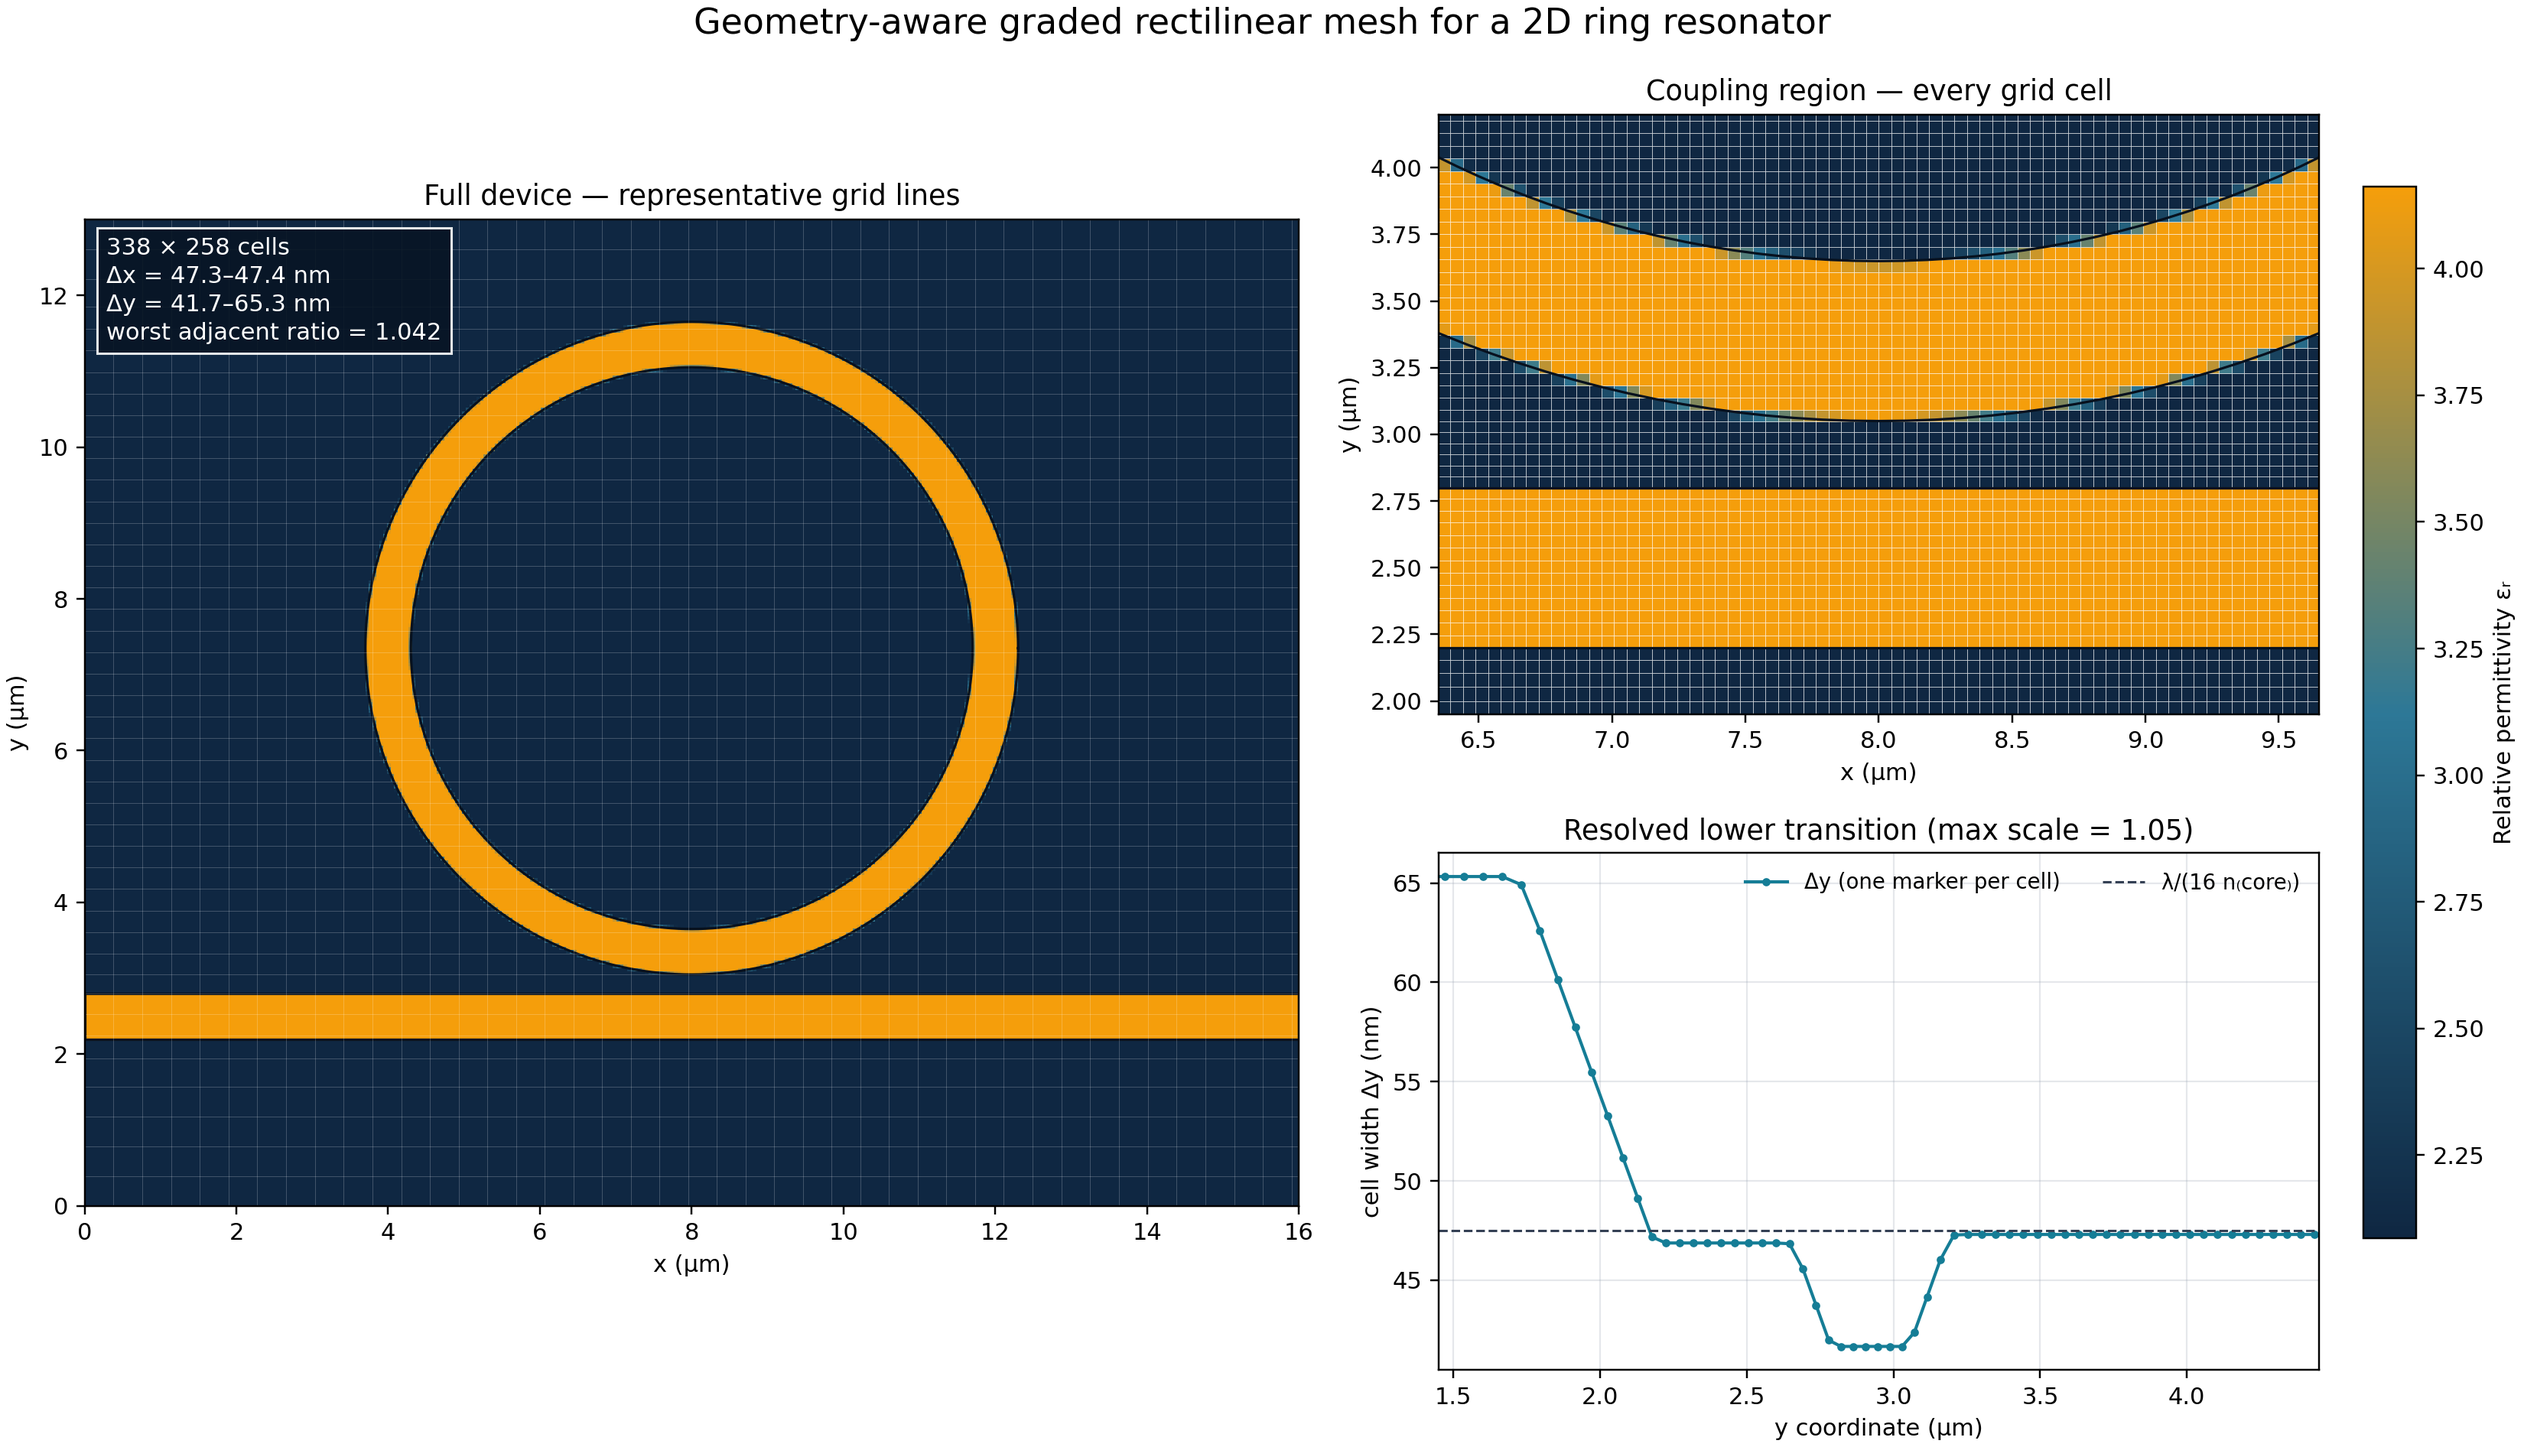
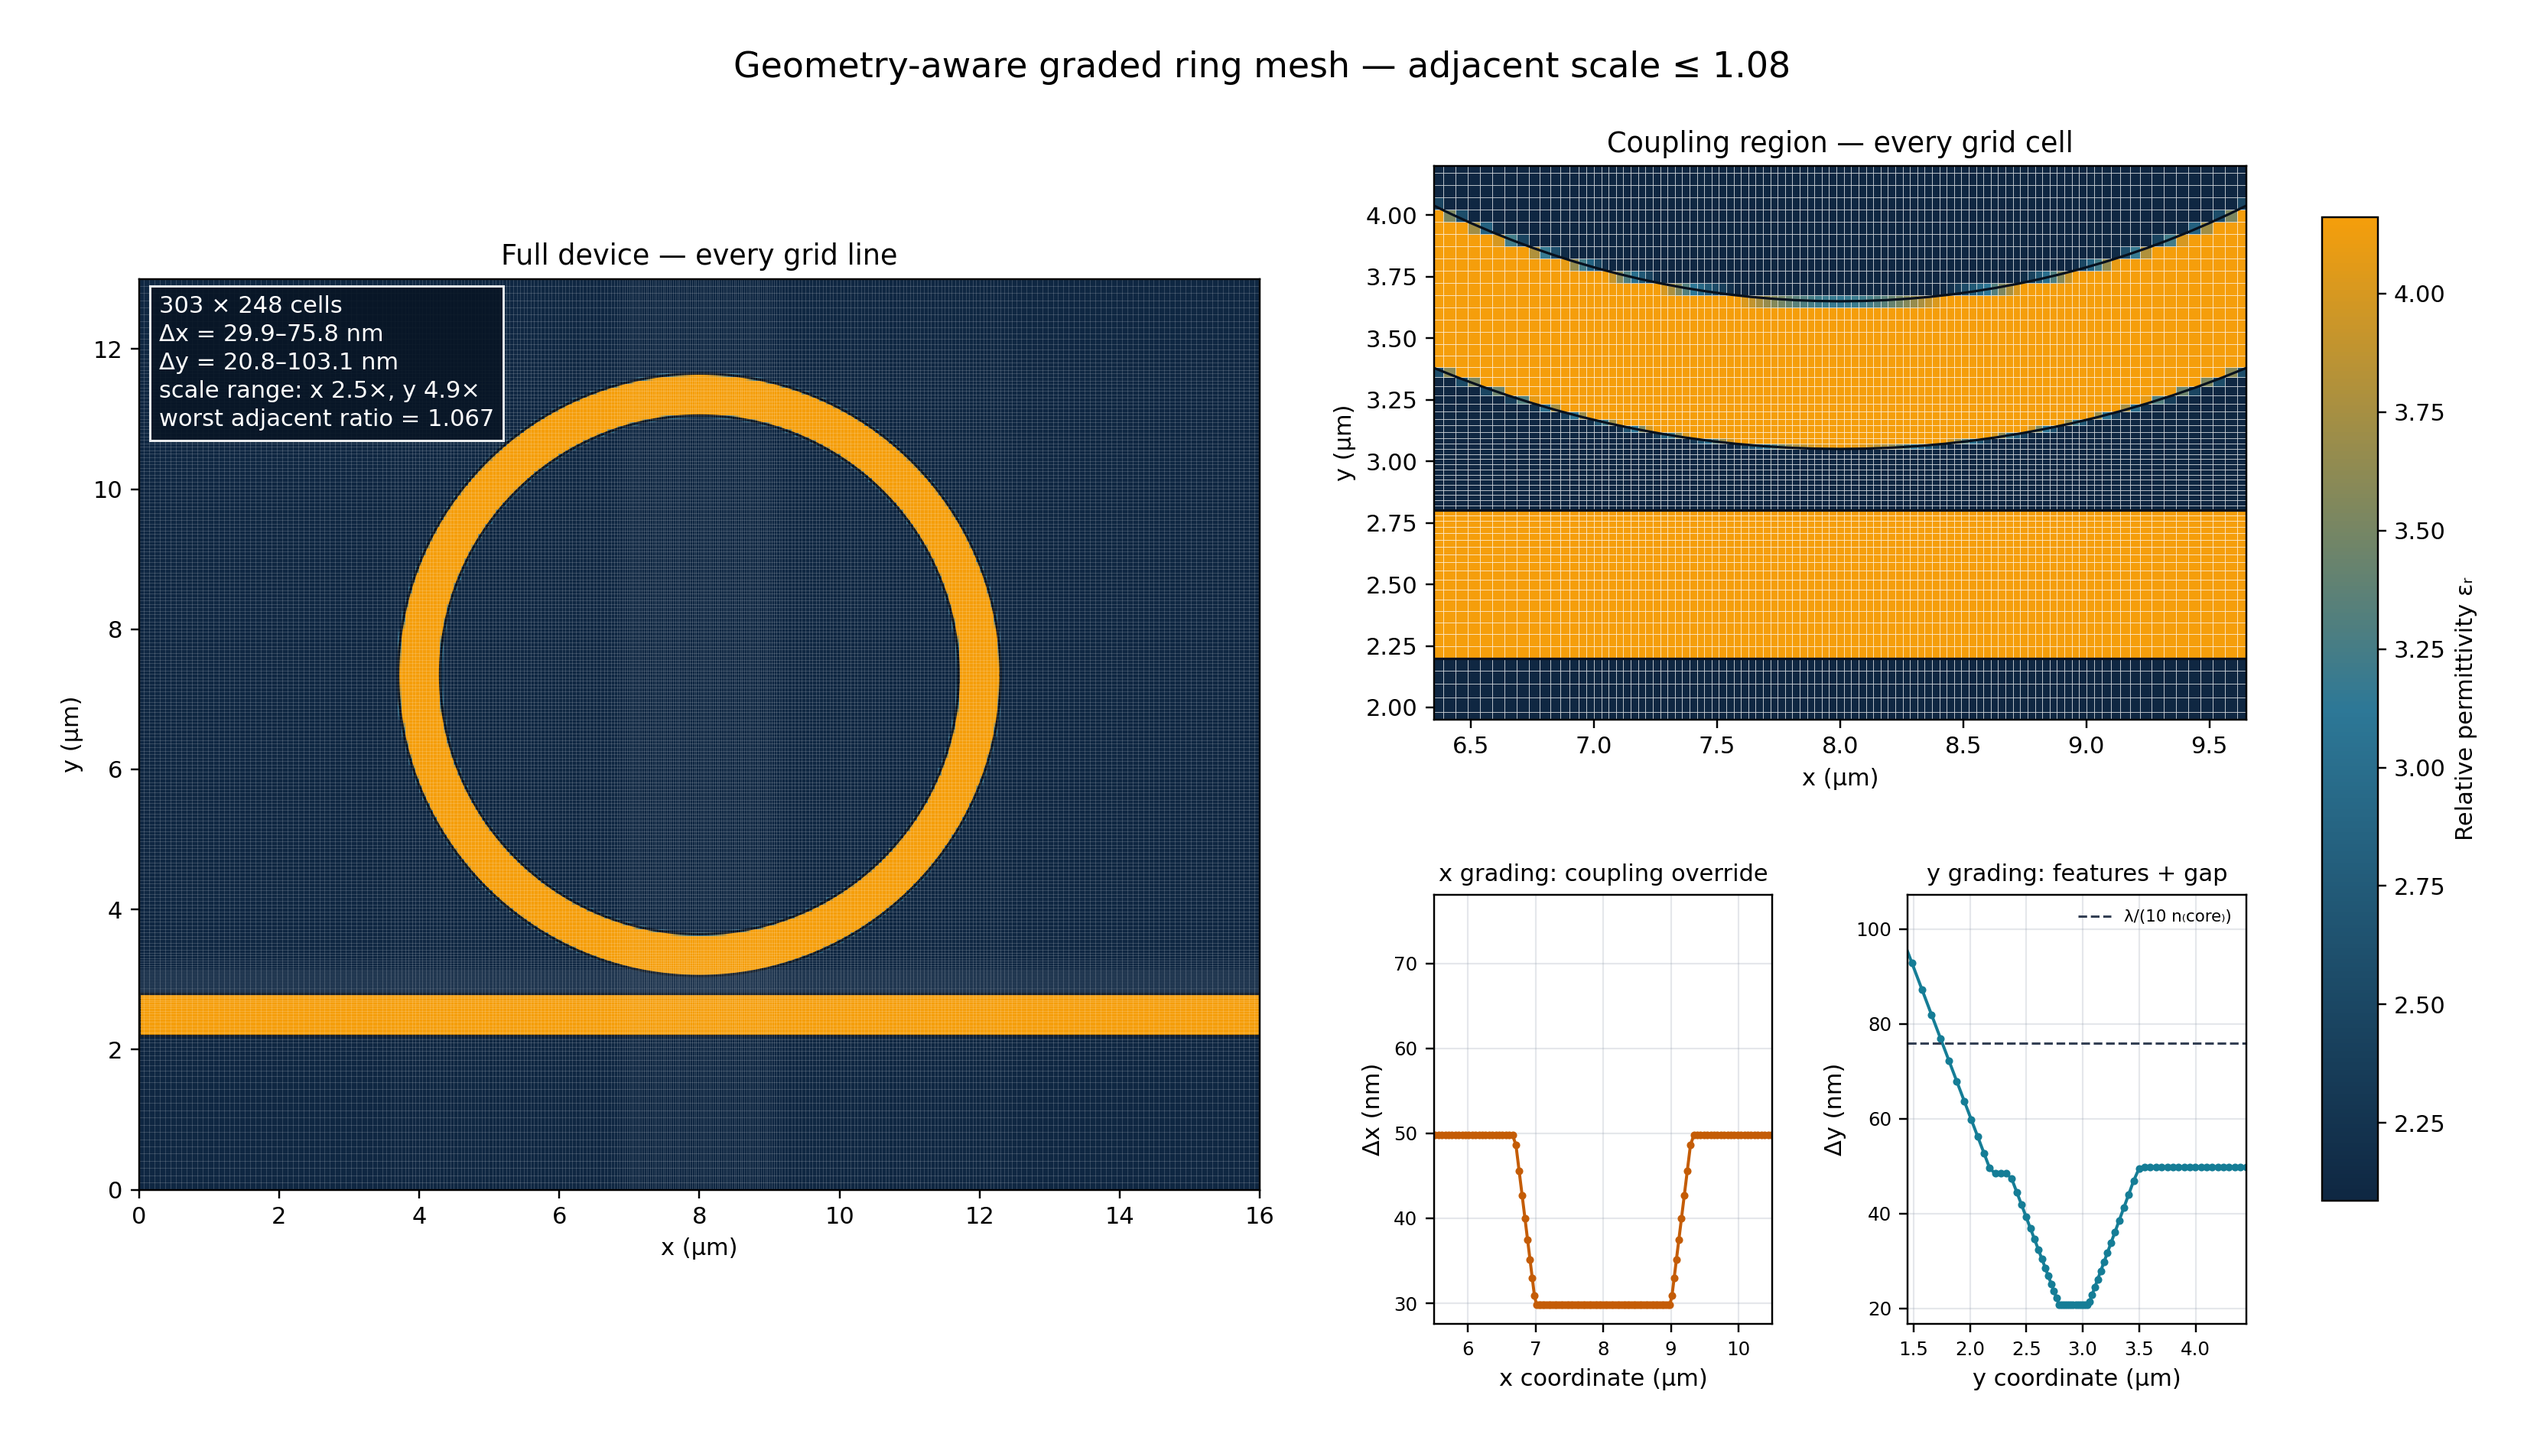
[Examples] Make ring grid grading explicit

diff --git a/examples/2D_basics/resonator_ring_rectilinear_grid.py b/examples/2D_basics/resonator_ring_rectilinear_grid.py
@@ -14,7 +14,10 @@ from matplotlib.colors import LinearSegmentedColormap
 import beamz as bz
 
 WAVELENGTH = 1.55 * bz.um
-MAX_SCALE = 1.05
+MIN_STEPS_PER_WVL = 10
+MIN_FEATURE_CELLS = 12
+MAX_SCALE = 1.08
+COUPLING_DX = 30 * bz.nm
 
 
 def create_design() -> tuple[bz.Design, dict[str, float]]:
@@ -61,13 +64,27 @@ def create_design() -> tuple[bz.Design, dict[str, float]]:
     return design, params
 
 
-def create_grid(design: bz.Design) -> tuple[bz.GridSpec, bz.RectilinearGrid]:
-    """Resolve a material- and geometry-aware grid with gentle grading."""
+def create_grid(
+    design: bz.Design, params: dict[str, float]
+) -> tuple[bz.GridSpec, bz.RectilinearGrid]:
+    """Resolve an automatic grid with an x-only coupling-region override."""
+    gap_center_y = (
+        params["bus_center_y"]
+        + 0.5 * params["waveguide_width"]
+        + 0.5 * params["coupling_gap"]
+    )
     spec = bz.GridSpec.graded(
         wavelength=WAVELENGTH,
-        min_steps_per_wvl=16,
-        min_feature_cells=6,
+        min_steps_per_wvl=MIN_STEPS_PER_WVL,
+        min_feature_cells=MIN_FEATURE_CELLS,
         max_scale=MAX_SCALE,
+        overrides=(
+            bz.MeshOverride(
+                center=(params["ring_center_x"], gap_center_y),
+                size=(2.0 * bz.um, 1.5 * bz.um),
+                dl=(COUPLING_DX, None),
+            ),
+        ),
     )
     return spec, spec.realize(design)
 
@@ -99,16 +116,24 @@ def plot_grid(
     cmap = LinearSegmentedColormap.from_list(
         "ring_materials", ("#0f2742", "#2d7897", "#f59e0b")
     )
-    figure = plt.figure(figsize=(15.0, 8.6), layout="constrained")
+    figure = plt.figure(figsize=(15.0, 8.6))
     layout = figure.add_gridspec(
         2,
         2,
         width_ratios=(1.38, 1.0),
         height_ratios=(1.0, 0.72),
+        left=0.055,
+        right=0.89,
+        bottom=0.085,
+        top=0.90,
+        wspace=0.18,
+        hspace=0.30,
     )
     full_ax = figure.add_subplot(layout[:, 0])
     zoom_ax = figure.add_subplot(layout[0, 1])
-    spacing_ax = figure.add_subplot(layout[1, 1])
+    spacing_layout = layout[1, 1].subgridspec(1, 2, wspace=0.40)
+    x_spacing_ax = figure.add_subplot(spacing_layout[0, 0])
+    y_spacing_ax = figure.add_subplot(spacing_layout[0, 1])
 
     image_options = {
         "shading": "flat",
@@ -119,17 +144,17 @@ def plot_grid(
     full_mesh = full_ax.pcolormesh(x_um, y_um, epsilon, **image_options)
     _draw_exact_outlines(full_ax, design)
 
-    # A representative subset avoids hiding the device under 85,000 grid cells.
-    for edge in x_um[::8]:
-        full_ax.axvline(edge, color="white", linewidth=0.28, alpha=0.24)
-    for edge in y_um[::6]:
-        full_ax.axhline(edge, color="white", linewidth=0.28, alpha=0.24)
+    # Draw every edge: this example is deliberately tuned to expose the grading.
+    for edge in x_um:
+        full_ax.axvline(edge, color="white", linewidth=0.22, alpha=0.24)
+    for edge in y_um:
+        full_ax.axhline(edge, color="white", linewidth=0.22, alpha=0.24)
     full_ax.set(
         xlim=(x_um[0], x_um[-1]),
         ylim=(y_um[0], y_um[-1]),
         xlabel="x (µm)",
         ylabel="y (µm)",
-        title="Full device — representative grid lines",
+        title="Full device — every grid line",
     )
     full_ax.set_aspect("equal", adjustable="box")
     full_ax.text(
@@ -139,6 +164,8 @@ def plot_grid(
             f"{grid.shape[0]:,} × {grid.shape[1]:,} cells\n"
             f"Δx = {dx_nm.min():.1f}–{dx_nm.max():.1f} nm\n"
             f"Δy = {dy_nm.min():.1f}–{dy_nm.max():.1f} nm\n"
+            f"scale range: x {dx_nm.max() / dx_nm.min():.1f}×, "
+            f"y {dy_nm.max() / dy_nm.min():.1f}×\n"
             f"worst adjacent ratio = {quality.max_adjacent_ratio:.3f}"
         ),
         transform=full_ax.transAxes,
@@ -176,37 +203,57 @@ def plot_grid(
     )
     zoom_ax.set_aspect("equal", adjustable="box")
 
+    x_centers = grid.centers("x") / bz.um
     y_centers = grid.centers("y") / bz.um
-    spacing_ax.plot(
+    x_spacing_ax.plot(
+        x_centers,
+        dx_nm,
+        color="#c45c06",
+        marker="o",
+        markersize=2.3,
+        linewidth=1.3,
+    )
+    x_spacing_ax.set(
+        xlabel="x coordinate (µm)",
+        ylabel="Δx (nm)",
+        title="x grading: coupling override",
+        xlim=(5.5, 10.5),
+    )
+
+    y_spacing_ax.plot(
         y_centers,
         dy_nm,
         color="#157d96",
         marker="o",
-        markersize=2.5,
-        label="Δy (one marker per cell)",
-        linewidth=1.35,
+        markersize=2.3,
+        linewidth=1.3,
     )
-    spacing_ax.axhline(
-        WAVELENGTH / params["n_core"] / 16 / bz.nm,
+    y_spacing_ax.axhline(
+        WAVELENGTH / params["n_core"] / MIN_STEPS_PER_WVL / bz.nm,
         color="#344054",
         linestyle="--",
         linewidth=1.0,
-        label="λ/(16 n₍core₎)",
+        label=f"λ/({MIN_STEPS_PER_WVL} n₍core₎)",
     )
-    spacing_ax.set(
+    y_spacing_ax.set(
         xlabel="y coordinate (µm)",
-        ylabel="cell width Δy (nm)",
-        title=f"Resolved lower transition (max scale = {MAX_SCALE})",
+        ylabel="Δy (nm)",
+        title="y grading: features + gap",
         xlim=(1.45, 4.45),
     )
-    spacing_ax.grid(color="#98a2b3", alpha=0.25, linewidth=0.7)
-    spacing_ax.legend(loc="upper right", frameon=False, ncols=2, fontsize=9)
+    for spacing_ax in (x_spacing_ax, y_spacing_ax):
+        spacing_ax.grid(color="#98a2b3", alpha=0.25, linewidth=0.7)
+        spacing_ax.tick_params(labelsize=8)
+        spacing_ax.title.set_fontsize(10)
+    y_spacing_ax.legend(loc="upper right", frameon=False, fontsize=7)
 
-    colorbar = figure.colorbar(full_mesh, ax=(full_ax, zoom_ax), shrink=0.8, pad=0.02)
+    colorbar_ax = figure.add_axes((0.92, 0.17, 0.022, 0.68))
+    colorbar = figure.colorbar(full_mesh, cax=colorbar_ax)
     colorbar.set_label("Relative permittivity εᵣ")
     figure.suptitle(
-        "Geometry-aware graded rectilinear mesh for a 2D ring resonator",
+        f"Geometry-aware graded ring mesh — adjacent scale ≤ {MAX_SCALE}",
         fontsize=15,
+        y=0.965,
     )
     figure.savefig(output, dpi=220, facecolor="white")
     plt.close(figure)
@@ -214,7 +261,7 @@ def plot_grid(
 
 def main() -> None:
     design, params = create_design()
-    _spec, grid = create_grid(design)
+    _spec, grid = create_grid(design, params)
     material_grid = design.rasterize(
         grid,
         quality="balanced",
